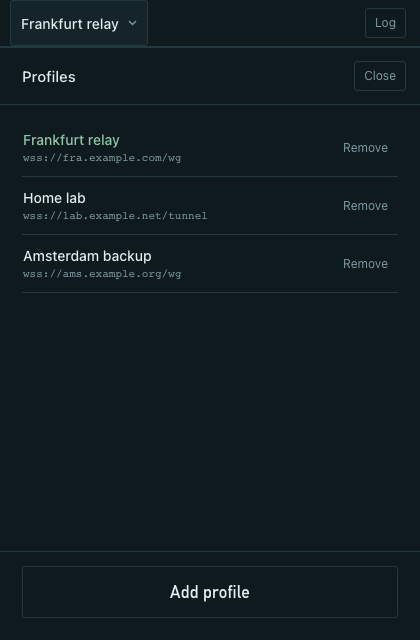
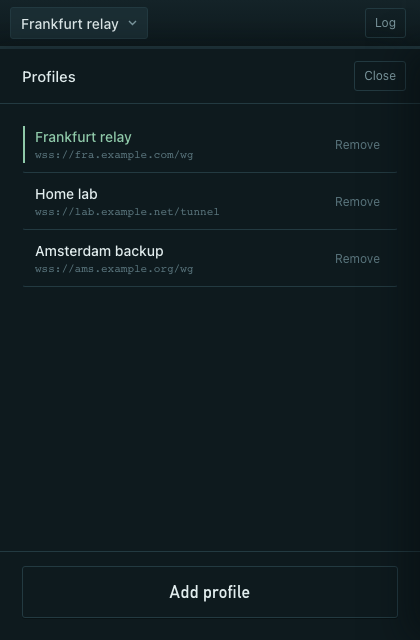
client-win: sharpen the UI into a bench instrument
Gives the connected state real presence (lit state word, breathing lamp,
glowing status rule, celadon Down/Up figures) and turns the traffic strip
into a proper scope: hairline baseline, two gridlines, a dashed peak marker
with its value, and handshake notches under the axis. Readouts move to a
2x2 grid with the transfer totals set large and their units small. Connect
gets hover, pressed and disabled states; profile rows, focus rings, log
scrollbars and the empty state follow. Behaviour and the backend contract
are unchanged.

diff --git a/crates/client-win/ui/app.css b/crates/client-win/ui/app.css
@@ -1,13 +1,22 @@
 :root{
-	--deep:#0F1A1E;
-	--panel:#15242A;
-	--line:#24393F;
+	--deep:#0E1A1E;
+	--panel:#152429;
+	--raise:#1B2E34;
+	--line:#233A41;
+	--grid:#1B2E35;
+	--axis:#2E4A53;
+	--bar:#33525C;
 	--text:#E2EDEE;
+	--mute:#A9BFC3;
 	--dim:#7E9AA1;
+	--faint:#5A757D;
 	--live:#8FC9A9;
+	--live-hi:#A6D8BC;
+	--live-lo:#78B393;
 	--warm:#C9A05C;
 	--clay:#C97A6D;
 	--r:3px;
+	--head:49px;
 	--display:"Bahnschrift", "DIN Alternate", "DIN Condensed", "Avenir Next Condensed", "Segoe UI", system-ui, sans-serif;
 	--ui:"Segoe UI Variable Text", "Segoe UI", -apple-system, BlinkMacSystemFont, system-ui, sans-serif;
 	--mono:"Cascadia Mono", Consolas, "SF Mono", ui-monospace, monospace;
@@ -18,96 +27,142 @@ body{margin:0;background:var(--deep);color:var(--text);font:400 13px/1.5 var(--u
 h1,h2,p,dl,dd{margin:0}
 button{font:inherit;color:inherit}
 code{font:400 12px var(--mono);color:var(--dim)}
-:focus-visible{outline:2px solid var(--live);outline-offset:2px}
+:focus-visible{outline:2px solid var(--live);outline-offset:2px;border-radius:var(--r)}
 .shell{position:relative;display:flex;flex-direction:column;height:100%;overflow:hidden}
 
-.topbar{display:flex;align-items:stretch;justify-content:space-between;gap:8px;height:46px;padding:0 14px 0 10px;flex:0 0 auto}
-.picker{display:flex;align-items:center;gap:9px;padding:0 10px;max-width:74%;background:none;border:1px solid transparent;border-radius:var(--r);cursor:pointer}
-.picker:hover{border-color:var(--line);background:var(--panel)}
+.topbar{display:flex;align-items:stretch;justify-content:space-between;gap:8px;height:46px;padding:0 14px 0 10px;flex:0 0 auto;background:linear-gradient(var(--panel), var(--deep))}
+.picker{display:flex;align-self:center;align-items:center;gap:9px;height:32px;padding:0 10px;max-width:74%;background:none;border:1px solid transparent;border-radius:var(--r);cursor:pointer;transition:background .12s ease, border-color .12s ease}
+.picker:hover{border-color:var(--line);background:var(--raise)}
+.picker:active{background:var(--panel)}
 .picker-name{font:500 14px var(--ui);letter-spacing:.005em;white-space:nowrap;overflow:hidden;text-overflow:ellipsis}
-.caret{color:var(--dim);flex:0 0 auto}
-.ghost{align-self:center;padding:5px 9px;background:none;border:1px solid var(--line);border-radius:var(--r);color:var(--dim);font-size:12px;cursor:pointer}
-.ghost:hover{color:var(--text);border-color:var(--dim)}
+.caret{color:var(--faint);flex:0 0 auto;transition:color .12s ease}
+.picker:hover .caret{color:var(--dim)}
+.head-acts{display:flex;gap:6px}
+.ghost{align-self:center;padding:5px 9px;background:none;border:1px solid var(--line);border-radius:var(--r);color:var(--dim);font-size:12px;cursor:pointer;transition:color .12s ease, border-color .12s ease, background .12s ease}
+.ghost:hover{color:var(--text);border-color:var(--dim);background:var(--raise)}
+.ghost:active{background:var(--panel)}
 
-.statusline{flex:0 0 auto;height:2px;background:var(--line)}
-.statusline[data-state="connected"]{background:var(--live)}
-.statusline[data-state="connecting"]{background:var(--warm);animation:breathe 1.6s ease-in-out infinite}
+.statusline{position:relative;flex:0 0 auto;height:3px;background:var(--line);transition:background .22s ease, box-shadow .22s ease}
+.statusline[data-state="connected"]{background:var(--live);box-shadow:0 0 14px -2px rgba(143, 201, 169, .55)}
+.statusline[data-state="connecting"]{background-image:linear-gradient(90deg, transparent, var(--warm) 45%, var(--warm) 55%, transparent);background-size:42% 100%;background-repeat:no-repeat;animation:scan 1.5s cubic-bezier(.5, 0, .5, 1) infinite}
 .statusline[data-state="error"]{background:var(--clay)}
-@keyframes breathe{0%,100%{opacity:.35}50%{opacity:1}}
+@keyframes scan{0%{background-position:-45% 0}100%{background-position:145% 0}}
 
-.stage{display:flex;flex-direction:column;flex:1 1 auto;min-height:0;padding:26px 22px 22px}
-.state-word{font:600 42px/1 var(--display);letter-spacing:.005em}
-.state-sub{margin-top:9px;font:400 12px/1.45 var(--mono);color:var(--dim);word-break:break-all}
+.stage{display:flex;flex-direction:column;flex:1 1 auto;min-height:0;padding:24px 22px 20px}
+.state-head{display:flex;align-items:center;justify-content:space-between;gap:14px}
+.state-word{font:600 44px/1 var(--display);letter-spacing:.004em;color:var(--mute);transition:color .24s ease}
+.lamp{flex:0 0 auto;width:9px;height:9px;border-radius:50%;background:var(--bar);box-shadow:inset 0 0 0 1px rgba(0, 0, 0, .35)}
+.state-sub{margin-top:10px;font:400 12px/1.45 var(--mono);color:var(--dim);word-break:break-all}
 .state-sub.bad{color:var(--clay)}
+.example{display:none;margin-top:12px;padding:8px 10px;border:1px solid var(--line);border-left:2px solid var(--bar);border-radius:var(--r);background:var(--panel);font:400 11px/1.4 var(--mono);color:var(--dim);word-break:break-all;user-select:text}
+.stage[data-state="connected"] .state-word{color:var(--live)}
+.stage[data-state="connecting"] .state-word{color:var(--warm)}
+.stage[data-state="error"] .state-word{color:var(--clay)}
+.stage[data-state="connected"] .state-word,.stage[data-state="connecting"] .state-word,.stage[data-state="error"] .state-word,.stage[data-state="disconnected"] .state-word{animation:settle .3s ease-out}
+.stage[data-state="connected"] .lamp{background:var(--live);animation:lamp 2.8s ease-in-out infinite}
+.stage[data-state="connecting"] .lamp{background:var(--warm);animation:blink 1.5s ease-in-out infinite}
+.stage[data-state="error"] .lamp{background:var(--clay);box-shadow:0 0 8px 1px rgba(201, 122, 109, .4)}
+@keyframes settle{from{opacity:0;transform:translateY(3px)}to{opacity:1;transform:none}}
+@keyframes lamp{0%,100%{box-shadow:0 0 5px 0 rgba(143, 201, 169, .3)}50%{box-shadow:0 0 13px 3px rgba(143, 201, 169, .7)}}
+@keyframes blink{0%,100%{opacity:.35}50%{opacity:1}}
 
-.pulse{margin-top:24px}
-.track{position:relative;display:flex;align-items:flex-end;gap:2px;height:80px;padding-bottom:9px}
-.track::after{content:"";position:absolute;left:0;right:0;bottom:8px;height:1px;background:var(--line)}
-.tick{position:relative;flex:1 1 0;background:var(--dim);opacity:.28}
-.tick.on{background:var(--live);opacity:.9}
-.tick.hs::after{content:"";position:absolute;left:50%;bottom:-7px;width:3px;height:3px;margin-left:-1.5px;background:var(--live)}
-.caption{margin-top:7px;height:15px;font-size:11px;color:var(--dim)}
+.pulse{margin-top:22px}
+.scope{position:relative;height:158px}
+.track{position:absolute;left:0;right:0;bottom:16px;height:126px;display:flex;align-items:flex-end;gap:2px}
+.track::before{content:"";position:absolute;left:0;right:0;top:33.33%;height:1px;background:var(--grid);box-shadow:0 42px 0 0 var(--grid)}
+.track::after{content:"";position:absolute;left:0;right:0;bottom:-1px;height:1px;background:var(--axis)}
+.scope::after{content:"";position:absolute;left:0;right:0;bottom:2px;height:3px;background:repeating-linear-gradient(90deg, var(--grid) 0 1px, transparent 1px 16.6667%)}
+.tick{position:relative;flex:1 1 0;min-width:1px;background:var(--bar);transition:background .2s ease}
+.tick.on{background:var(--live)}
+.tick.hs::after{content:"";position:absolute;left:50%;bottom:-8px;width:2px;height:6px;margin-left:-1px;background:var(--live-hi)}
+.stage:not([data-state="connected"]) .track::before,.stage:not([data-state="connected"]) .scope::after{opacity:.6}
+.peak{position:absolute;left:0;right:0;height:1px;background:repeating-linear-gradient(90deg, var(--live-lo) 0 2px, transparent 2px 6px);opacity:.7}
+.peak-label{position:absolute;left:0;bottom:4px;padding-right:7px;background:var(--deep);font:400 10px var(--mono);letter-spacing:.01em;color:var(--live-lo)}
+.caption{margin-top:9px;height:15px;font-size:11px;color:var(--faint)}
 
-.readout{margin-top:auto;padding-top:26px;border-bottom:1px solid var(--line)}
-.row{display:flex;align-items:baseline;justify-content:space-between;gap:12px;padding:13px 1px;border-top:1px solid var(--line)}
-.row dt{font-size:12px;color:var(--dim)}
-.row dd{font:400 16px var(--mono);font-variant-numeric:tabular-nums;letter-spacing:-.01em}
+.readout{margin-top:auto;display:grid;grid-template-columns:1fr 1fr;padding-top:30px;border-bottom:1px solid var(--line)}
+.cell{padding:13px 0 14px;border-top:1px solid var(--line)}
+.cell:nth-child(even){padding-left:16px;border-left:1px solid var(--line)}
+.cell:nth-child(odd){padding-right:16px}
+.cell dt{font-size:11px;color:var(--dim)}
+.cell dd{margin-top:4px;font:400 15px var(--mono);font-variant-numeric:tabular-nums;letter-spacing:-.01em;color:var(--text)}
+.cell dd.big{font-size:24px;letter-spacing:-.02em}
+.unit{margin-left:5px;font-size:11px;letter-spacing:0;color:var(--dim)}
+.stage[data-state="connected"] .lead-cell dd.big{color:var(--live)}
 
-.act{margin-top:22px}
+.act{margin-top:26px}
 .lead{margin-top:12px;max-width:33ch;word-break:normal;overflow-wrap:break-word;font:400 13px/1.6 var(--ui);color:var(--dim)}
-#stage[data-empty="1"] .pulse,#stage[data-empty="1"] .readout{display:none}
-#stage[data-empty="1"] .state,#stage[data-empty="1"] .act{margin-top:auto}
+.stage[data-empty="1"] .pulse,.stage[data-empty="1"] .readout{display:none}
+.stage[data-empty="1"] .lamp{display:none}
+.stage[data-empty="1"] .example{display:block}
+.stage[data-empty="1"] .state,.stage[data-empty="1"] .act{margin-top:auto}
 .notice{margin-bottom:12px;padding:9px 11px;border:1px solid var(--line);border-left:2px solid var(--clay);border-radius:var(--r);background:var(--panel);font-size:12px;line-height:1.45;color:var(--text)}
-.action{display:block;width:100%;height:52px;background:var(--live);color:#0C1517;border:1px solid var(--live);border-radius:var(--r);font:600 17px var(--display);letter-spacing:.015em;cursor:pointer}
-.action:hover{filter:brightness(1.08)}
-.action.quiet,.action[data-mode="disconnect"]{background:none;color:var(--text);border-color:var(--line)}
-.action.quiet:hover,.action[data-mode="disconnect"]:hover{border-color:var(--dim);filter:none}
-.action[disabled]{opacity:.45;cursor:default;filter:none}
+.action{display:block;width:100%;height:52px;background:var(--live);color:#0B1417;border:1px solid var(--live-lo);border-radius:var(--r);font:600 17px var(--display);letter-spacing:.018em;cursor:pointer;box-shadow:0 1px 0 rgba(0, 0, 0, .4), inset 0 1px 0 rgba(255, 255, 255, .13);transition:background .12s ease, border-color .12s ease, box-shadow .1s ease, transform .06s ease}
+.action:not([disabled]):hover{background:var(--live-hi)}
+.action:not([disabled]):active{transform:translateY(1px);background:var(--live-lo);box-shadow:inset 0 2px 5px rgba(0, 0, 0, .3)}
+.action:focus-visible{outline-color:var(--text)}
+.action.quiet,.action[data-mode="disconnect"]{background:none;color:var(--text);border-color:var(--line);box-shadow:0 1px 0 rgba(0, 0, 0, .3)}
+.action.quiet:not([disabled]):hover{background:var(--raise);border-color:var(--dim)}
+.action[data-mode="disconnect"]:not([disabled]):hover{background:rgba(201, 122, 109, .1);border-color:var(--clay);color:#EDCBC4}
+.action.quiet:not([disabled]):active,.action[data-mode="disconnect"]:not([disabled]):active{background:var(--panel);box-shadow:inset 0 2px 5px rgba(0, 0, 0, .3)}
+.action[disabled]{background:none;color:#6D8890;border-color:var(--line);box-shadow:none;cursor:default}
 
-.drawer,.sheet{position:absolute;left:0;right:0;display:flex;flex-direction:column;background:var(--panel);border-top:1px solid var(--line);transition:transform .16s ease-out}
-.drawer{bottom:0;height:62%;transform:translateY(100%)}
+.drawer,.sheet{position:absolute;left:0;right:0;display:flex;flex-direction:column;background:var(--panel);border-top:1px solid var(--line);transition:transform .18s cubic-bezier(.22, .61, .36, 1)}
+.drawer{bottom:0;height:64%;transform:translateY(100%);box-shadow:0 -16px 34px rgba(5, 11, 13, .55)}
 .drawer[data-open="1"]{transform:translateY(0)}
-.sheet{top:48px;bottom:0;border-top:0;border-left:0;background:var(--deep);transform:translateX(101%)}
+.sheet{top:var(--head);bottom:0;border-top:0;border-left:0;background:var(--deep);transform:translateX(101%);box-shadow:-18px 0 34px rgba(5, 11, 13, .5)}
 .sheet[data-open="1"]{transform:translateX(0)}
-.drawer-head,.sheet-head{display:flex;align-items:center;justify-content:space-between;gap:10px;padding:13px 14px 13px 22px;border-bottom:1px solid var(--line);flex:0 0 auto}
+.drawer-head,.sheet-head{display:flex;align-items:center;justify-content:space-between;gap:10px;padding:12px 14px 12px 22px;border-bottom:1px solid var(--line);flex:0 0 auto}
 .drawer-head h2,.sheet-head h2{font:500 15px var(--ui);letter-spacing:.005em}
-.drawer-body{flex:1 1 auto;overflow-y:auto;padding:10px 14px 14px 22px;font:400 11px/1.6 var(--mono);color:var(--dim);user-select:text}
+.drawer-body{flex:1 1 auto;overflow-y:auto;padding:10px 12px 14px 22px;font:400 11px/1.65 var(--mono);color:var(--dim);user-select:text}
 .drawer-body .ln{white-space:pre-wrap;word-break:break-word;padding-left:9ch;text-indent:-9ch}
 .drawer-body .ln.warn{color:var(--warm)}
 .drawer-body .ln.bad{color:var(--clay)}
-.blank{color:var(--dim);font:400 12px var(--ui)}
+.blank{max-width:34ch;color:var(--faint);font:400 12px/1.55 var(--ui)}
+.drawer-body::-webkit-scrollbar,.sheet-body::-webkit-scrollbar,textarea::-webkit-scrollbar{width:10px}
+.drawer-body::-webkit-scrollbar-thumb,.sheet-body::-webkit-scrollbar-thumb,textarea::-webkit-scrollbar-thumb{background:var(--bar);background-clip:content-box;border:3px solid transparent}
+.drawer-body::-webkit-scrollbar-thumb:hover,.sheet-body::-webkit-scrollbar-thumb:hover,textarea::-webkit-scrollbar-thumb:hover{background:var(--faint);background-clip:content-box}
 
-.sheet-body{flex:1 1 auto;min-height:0;overflow-y:auto;display:flex;flex-direction:column;padding:14px 22px}
+.sheet-body{flex:1 1 auto;min-height:0;overflow-y:auto;display:flex;flex-direction:column;padding:12px 22px 16px}
 .sheet-foot{flex:0 0 auto;padding:14px 22px 22px;border-top:1px solid var(--line)}
 .plist{margin:0;padding:0;list-style:none}
-.pitem{display:flex;align-items:center;gap:10px;padding:12px 1px;border-bottom:1px solid var(--line)}
+.pitem{position:relative;display:flex;align-items:center;gap:10px;padding:11px 8px 11px 12px;border:1px solid transparent;border-bottom-color:var(--line);border-radius:var(--r);transition:background .12s ease}
+.pitem:hover{background:var(--panel)}
+.pitem::before{content:"";position:absolute;left:0;top:9px;bottom:9px;width:2px;background:transparent}
+.pitem[data-current="1"]::before{background:var(--live)}
 .pitem-main{flex:1 1 auto;min-width:0;background:none;border:0;padding:0;text-align:left;cursor:pointer}
 .pitem-name{display:block;font:500 14px var(--ui);white-space:nowrap;overflow:hidden;text-overflow:ellipsis}
-.pitem-ep{display:block;margin-top:3px;font:400 11px var(--mono);color:var(--dim);white-space:nowrap;overflow:hidden;text-overflow:ellipsis}
+.pitem-ep{display:block;margin-top:3px;font:400 11px var(--mono);color:var(--faint);white-space:nowrap;overflow:hidden;text-overflow:ellipsis}
 .pitem[data-current="1"] .pitem-name{color:var(--live)}
-.pitem-act{flex:0 0 auto;padding:4px 8px;background:none;border:1px solid transparent;border-radius:var(--r);color:var(--dim);font-size:12px;cursor:pointer}
+.pitem-act{flex:0 0 auto;padding:4px 8px;background:none;border:1px solid transparent;border-radius:var(--r);color:var(--faint);font-size:12px;cursor:pointer;transition:color .12s ease, border-color .12s ease}
+.pitem:hover .pitem-act{color:var(--dim)}
 .pitem-act:hover{color:var(--clay);border-color:var(--line)}
 .pitem-act.confirm{color:var(--clay);border-color:var(--clay)}
-.blank-block{padding:26px 0 0}
+.blank-block{padding:22px 0 0}
 .blank-title{font:500 15px var(--ui)}
 .blank-note{margin-top:7px;max-width:34ch;font-size:12px;line-height:1.55;color:var(--dim)}
+.blank-block .example{display:block;margin-top:12px}
 
 .field{display:flex;flex-direction:column;gap:6px;margin-bottom:14px}
 .field.grow{flex:1 1 auto;min-height:0;margin-bottom:10px}
 .field span{font-size:12px;color:var(--dim)}
-input,textarea{width:100%;padding:9px 10px;background:var(--panel);color:var(--text);border:1px solid var(--line);border-radius:var(--r);font:400 13px var(--ui);user-select:text}
+input,textarea{width:100%;padding:9px 10px;background:var(--panel);color:var(--text);border:1px solid var(--line);border-radius:var(--r);font:400 13px var(--ui);user-select:text;transition:border-color .12s ease, background .12s ease}
 textarea{flex:1 1 auto;min-height:190px;resize:none;font:400 12px/1.55 var(--mono)}
 input::placeholder,textarea::placeholder{color:#4E6A70}
-input:focus,textarea:focus{border-color:var(--dim);outline:none}
-input:focus-visible,textarea:focus-visible{outline:none;border-color:var(--live)}
+input:hover,textarea:hover{border-color:var(--bar)}
+input:focus,textarea:focus{background:var(--raise);border-color:var(--live);outline:none}
 
 @media (prefers-reduced-motion:reduce){
-	.drawer,.sheet{transition:none}
-	.statusline[data-state="connecting"]{animation:none;opacity:.85}
+	*{animation-duration:.001ms !important;animation-iteration-count:1 !important;transition-duration:.001ms !important}
+	.statusline[data-state="connecting"]{background:var(--warm);background-image:none}
+	.action:not([disabled]):active{transform:none}
 }
-@media (max-width:380px){
+@media (max-width:390px){
 	.stage{padding:20px 16px 18px}
-	.state-word{font-size:36px}
+	.state-word{font-size:37px}
+	.cell dd.big{font-size:21px}
+	.cell:nth-child(even){padding-left:12px}
+	.cell:nth-child(odd){padding-right:12px}
 	.sheet-head,.sheet-body,.sheet-foot{padding-left:16px;padding-right:16px}
 	.drawer-body,.drawer-head{padding-left:16px}
 }

diff --git a/crates/client-win/ui/app.js b/crates/client-win/ui/app.js
@@ -1,5 +1,5 @@
 "use strict";
-const TICKS=60, WORDS={disconnected:"Disconnected", connecting:"Connecting", connected:"Connected", error:"Failed"};
+const TICKS=60, BAR=126, BASE=16, WORDS={disconnected:"Disconnected", connecting:"Connecting", connected:"Connected", error:"Failed"};
 const el=id=>document.getElementById(id);
 const api=()=>window.__TAURI__;
 const invoke=(cmd, args)=>api().core.invoke(cmd, args);
@@ -22,6 +22,12 @@ function fmtAgo(s){
 	if(s===null||s===undefined){return "none yet"}
 	return s<60?`${s}s ago`:`${Math.floor(s/60)}m ${String(s%60).padStart(2, "0")}s ago`;
 }
+// Splits "17.2 MB" so the figure can sit large and the unit small beside it.
+function setAmount(numId, unitId, n){
+	const s=fmtBytes(n), i=s.indexOf(" ");
+	el(numId).textContent=s.slice(0, i);
+	el(unitId).textContent=s.slice(i+1);
+}
 function endpointOf(conf){
 	const m=/^[ \t]*Endpoint[ \t]*=[ \t]*(.+?)[ \t]*$/mi.exec(conf||"");
 	return m?m[1]:"no endpoint in config";
@@ -34,11 +40,19 @@ function explain(e){
 
 function drawTicks(live){
 	const max=Math.max(1, ...hist.map(h=>h.rate));
+	let top=0;
 	for(let i=0; i<TICKS; i++){
-		const h=hist[i], t=tickEls[i];
-		t.style.height=h.rate>0?Math.max(3, Math.round(Math.pow(h.rate/max, 0.55)*58))+"px":"0px";
+		const h=hist[i], t=tickEls[i], px=h.rate>0?Math.max(2, Math.round(Math.pow(h.rate/max, 0.55)*BAR)):0;
+		t.style.height=px+"px";
 		t.classList.toggle("on", live&&h.rate>0);
 		t.classList.toggle("hs", h.hs);
+		if(px>top){top=px}
+	}
+	const marker=el("peak"), show=live&&max>1;
+	marker.hidden=!show;
+	if(show){
+		marker.style.bottom=(BASE+top)+"px";
+		el("peakLabel").textContent="peak "+fmtBytes(max)+"/s";
 	}
 }
 function pushSample(rate, hs){
@@ -57,21 +71,22 @@ function paint(s){
 	el("stateWord").textContent=WORDS[st]||"Disconnected";
 	const sub=el("stateSub"), empty=profiles.length===0;
 	el("stage").dataset.empty=empty?"1":"0";
+	el("stage").dataset.state=st;
 	sub.className="state-sub";
 	if(empty){
 		el("stateWord").textContent="No profiles";
 		sub.className="state-sub lead";
-		sub.textContent="Paste a WireGuard config to add one. It needs an Endpoint line pointing at your wss:// relay.";
+		sub.textContent="Paste a WireGuard config to add one. It needs an Endpoint line like this:";
 	}else if(st==="connected"){sub.textContent=s.endpoint||"connected"}
 	else if(st==="connecting"){sub.textContent="reaching "+(current?endpointOf(current.conf):"the relay")}
 	else{sub.textContent=current?endpointOf(current.conf):"Choose a profile to begin"}
 	const stats=s.stats;
-	el("rx").textContent=fmtBytes(stats?stats.rx_bytes:0);
-	el("tx").textContent=fmtBytes(stats?stats.tx_bytes:0);
+	setAmount("rx", "rxUnit", stats?stats.rx_bytes:0);
+	setAmount("tx", "txUnit", stats?stats.tx_bytes:0);
 	el("hs").textContent=stats?fmtAgo(stats.last_handshake_secs_ago):"none yet";
 	el("uptime").textContent=fmtDur(stats?stats.connected_secs:0);
-	const peak=Math.max(0, ...hist.map(h=>h.rate));
-	el("caption").textContent=empty?"":live?(peak>0?"peak "+fmtBytes(peak)+"/s in the last minute":"tunnel is up, nothing moving yet"):st==="connecting"?"waiting for the first handshake":"traffic appears here once the tunnel is up";
+	const peak=Math.max(0, ...hist.map(h=>h.rate)), shook=hist.some(h=>h.hs);
+	el("caption").textContent=empty?"":live?(peak>0?(shook?"last 60 seconds, notches mark handshakes":"last 60 seconds"):"tunnel is up, nothing moving yet"):st==="connecting"?"waiting for the first handshake":"traffic appears here once the tunnel is up";
 	drawTicks(live);
 	const btn=el("action");
 	btn.textContent=empty?"Add profile":live?"Disconnect":st==="connecting"?"Connecting":"Connect";
@@ -179,7 +194,7 @@ function openPanel(node){
 }
 function closePanel(node){
 	node.dataset.open="0";
-	setTimeout(()=>{if(node.dataset.open!=="1"){node.hidden=true}}, 180);
+	setTimeout(()=>{if(node.dataset.open!=="1"){node.hidden=true}}, 200);
 }
 function closeSheet(){
 	closePanel(el("sheet"));
@@ -203,7 +218,7 @@ function boot(){
 	for(let i=0; i<TICKS; i++){
 		const d=document.createElement("div");
 		d.className="tick";
-		d.style.height="1px";
+		d.style.height="0px";
 		track.append(d);
 		tickEls.push(d);
 	}

diff --git a/crates/client-win/ui/index.html b/crates/client-win/ui/index.html
@@ -16,20 +16,27 @@
 		<button class="ghost" id="logToggle" type="button" aria-expanded="false" aria-controls="logPanel">Log</button>
 	</header>
 	<div class="statusline" id="statusline" data-state="disconnected"></div>
-	<main class="stage" id="stage">
+	<main class="stage" id="stage" data-state="disconnected">
 		<div class="state">
-			<h1 class="state-word" id="stateWord">Disconnected</h1>
+			<div class="state-head">
+				<h1 class="state-word" id="stateWord">Disconnected</h1>
+				<span class="lamp" aria-hidden="true"></span>
+			</div>
 			<p class="state-sub" id="stateSub">Choose a profile to begin</p>
+			<p class="example">Endpoint = wss://relay.example.com/wg</p>
 		</div>
 		<div class="pulse">
-			<div class="track" id="track" role="img" aria-label="Traffic over the last minute"></div>
+			<div class="scope">
+				<div class="track" id="track" role="img" aria-label="Traffic over the last minute"></div>
+				<div class="peak" id="peak" hidden><span class="peak-label" id="peakLabel"></span></div>
+			</div>
 			<p class="caption" id="caption"></p>
 		</div>
 		<dl class="readout">
-			<div class="row"><dt>Down</dt><dd id="rx">0 B</dd></div>
-			<div class="row"><dt>Up</dt><dd id="tx">0 B</dd></div>
-			<div class="row"><dt>Last handshake</dt><dd id="hs">none yet</dd></div>
-			<div class="row"><dt>Uptime</dt><dd id="uptime">0:00</dd></div>
+			<div class="cell lead-cell"><dt>Down</dt><dd class="big"><span id="rx">0</span><span class="unit" id="rxUnit">B</span></dd></div>
+			<div class="cell lead-cell"><dt>Up</dt><dd class="big"><span id="tx">0</span><span class="unit" id="txUnit">B</span></dd></div>
+			<div class="cell"><dt>Last handshake</dt><dd id="hs">none yet</dd></div>
+			<div class="cell"><dt>Uptime</dt><dd id="uptime">0:00</dd></div>
 		</dl>
 		<div class="act">
 			<p class="notice" id="notice" role="status" hidden></p>
@@ -39,10 +46,12 @@
 	<section class="drawer" id="logPanel" aria-label="Log" hidden>
 		<div class="drawer-head">
 			<h2>Log</h2>
-			<button class="ghost" id="logCopy" type="button">Copy</button>
-			<button class="ghost" id="logClose" type="button">Close</button>
+			<div class="head-acts">
+				<button class="ghost" id="logCopy" type="button">Copy</button>
+				<button class="ghost" id="logClose" type="button">Close</button>
+			</div>
 		</div>
-		<div class="drawer-body" id="logLines"><p class="blank">Nothing logged yet.</p></div>
+		<div class="drawer-body" id="logLines"><p class="blank">Nothing logged yet. Lines appear here as the tunnel opens.</p></div>
 	</section>
 	<section class="sheet" id="sheet" role="dialog" aria-label="Profiles" hidden>
 		<div class="sheet-head">
@@ -53,7 +62,8 @@
 			<ul class="plist" id="plist"></ul>
 			<div class="blank-block" id="plistEmpty" hidden>
 				<p class="blank-title">No profiles yet</p>
-				<p class="blank-note">Paste a WireGuard config with an <code>Endpoint = wss://</code> line to add your first one.</p>
+				<p class="blank-note">Paste a WireGuard config to add one. It needs an Endpoint line pointing at your relay.</p>
+				<p class="example">Endpoint = wss://relay.example.com/wg</p>
 			</div>
 		</div>
 		<div class="sheet-foot"><button class="action quiet" id="addOpen" type="button">Add profile</button></div>
